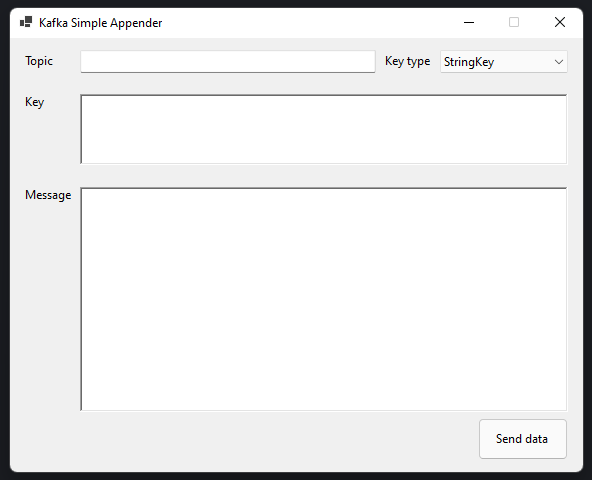
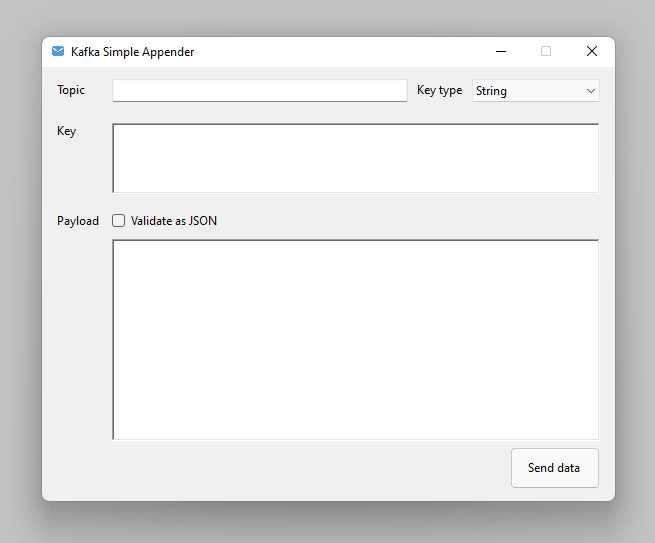
Add payload json validation

Changed region(s): [[0.0, 0.0, 1.0, 1.0]]

diff --git a/src/KafkaSimpleAppender/UI.Designer.cs b/src/KafkaSimpleAppender/UI.Designer.cs
@@ -38,6 +38,7 @@
             this.bSend = new System.Windows.Forms.Button();
             this.tbKeyType = new System.Windows.Forms.Label();
             this.cbTypes = new System.Windows.Forms.ComboBox();
+            this.cbJson = new System.Windows.Forms.CheckBox();
             this.SuspendLayout();
             // 
             // lbKey
@@ -59,20 +60,20 @@
             // 
             // tbMessage
             // 
-            this.tbMessage.Location = new System.Drawing.Point(70, 149);
+            this.tbMessage.Location = new System.Drawing.Point(70, 172);
             this.tbMessage.Name = "tbMessage";
-            this.tbMessage.Size = new System.Drawing.Size(488, 225);
+            this.tbMessage.Size = new System.Drawing.Size(488, 202);
             this.tbMessage.TabIndex = 7;
             this.tbMessage.Text = "";
             // 
             // lbMessage
             // 
             this.lbMessage.AutoSize = true;
-            this.lbMessage.Location = new System.Drawing.Point(12, 149);
+            this.lbMessage.Location = new System.Drawing.Point(12, 146);
             this.lbMessage.Name = "lbMessage";
-            this.lbMessage.Size = new System.Drawing.Size(53, 15);
+            this.lbMessage.Size = new System.Drawing.Size(49, 15);
             this.lbMessage.TabIndex = 6;
-            this.lbMessage.Text = "Message";
+            this.lbMessage.Text = "Payload";
             // 
             // lbTopic
             // 
@@ -119,11 +120,22 @@
             this.cbTypes.TabIndex = 12;
             this.cbTypes.SelectedIndexChanged += new System.EventHandler(this.cbTypes_SelectedIndexChanged);
             // 
+            // cbJson
+            // 
+            this.cbJson.AutoSize = true;
+            this.cbJson.Location = new System.Drawing.Point(70, 145);
+            this.cbJson.Name = "cbJson";
+            this.cbJson.Size = new System.Drawing.Size(112, 19);
+            this.cbJson.TabIndex = 13;
+            this.cbJson.Text = "Validate as JSON";
+            this.cbJson.UseVisualStyleBackColor = true;
+            // 
             // UI
             // 
             this.AutoScaleDimensions = new System.Drawing.SizeF(7F, 15F);
             this.AutoScaleMode = System.Windows.Forms.AutoScaleMode.Font;
             this.ClientSize = new System.Drawing.Size(573, 434);
+            this.Controls.Add(this.cbJson);
             this.Controls.Add(this.cbTypes);
             this.Controls.Add(this.tbKeyType);
             this.Controls.Add(this.bSend);
@@ -153,5 +165,6 @@
         private Button bSend;
         private Label tbKeyType;
         private ComboBox cbTypes;
+        private CheckBox cbJson;
     }
 }

diff --git a/src/Logic/KafkaSendHandler.cs b/src/Logic/KafkaSendHandler.cs
@@ -15,9 +15,17 @@ namespace Logic
             ValidKeyTypes = Enum.GetValues(typeof(KeyType)).Cast<KeyType>().ToList();
         }
 
-        public async Task HandleAsync(string topicName, KeyType keyType, string key, string payload, CancellationToken ct)
+        public async Task HandleAsync(string topicName, KeyType keyType, string key, string payload, bool jsonPayload, CancellationToken ct)
         {
             var topic = new Topic(topicName);
+
+            if (jsonPayload)
+            {
+                if (!_validator.IsValid(payload))
+                {
+                    throw new ArgumentException("Message payload is not valid json", nameof(key));
+                }
+            }
 
             switch (keyType)
             {

diff --git a/src/KafkaSimpleAppender/UI.cs b/src/KafkaSimpleAppender/UI.cs
@@ -20,7 +20,12 @@ namespace KafkaSimpleAppender
             {
                 DisableUI();
 
-                await _hander.HandleAsync(tbTopic.Text, (KeyType)cbTypes.SelectedItem, tbKey.Text, tbMessage.Text, CancellationToken.None);
+                await _hander.HandleAsync(tbTopic.Text, 
+                                          (KeyType)cbTypes.SelectedItem, 
+                                          tbKey.Text, 
+                                          tbMessage.Text,
+                                          cbJson.Checked,
+                                          CancellationToken.None);
 
                 Clear();
 

diff --git a/src/Logic/IKafkaSendHandler.cs b/src/Logic/IKafkaSendHandler.cs
@@ -4,7 +4,7 @@ namespace Logic
 {
     public interface IKafkaSendHandler
     {
-        public Task HandleAsync(string topicName, KeyType keyType, string key, string payload, CancellationToken ct);
+        public Task HandleAsync(string topicName, KeyType keyType, string key, string payload, bool jsonPayload, CancellationToken ct);
 
         public IEnumerable<KeyType> ValidKeyTypes { get; }
     }
